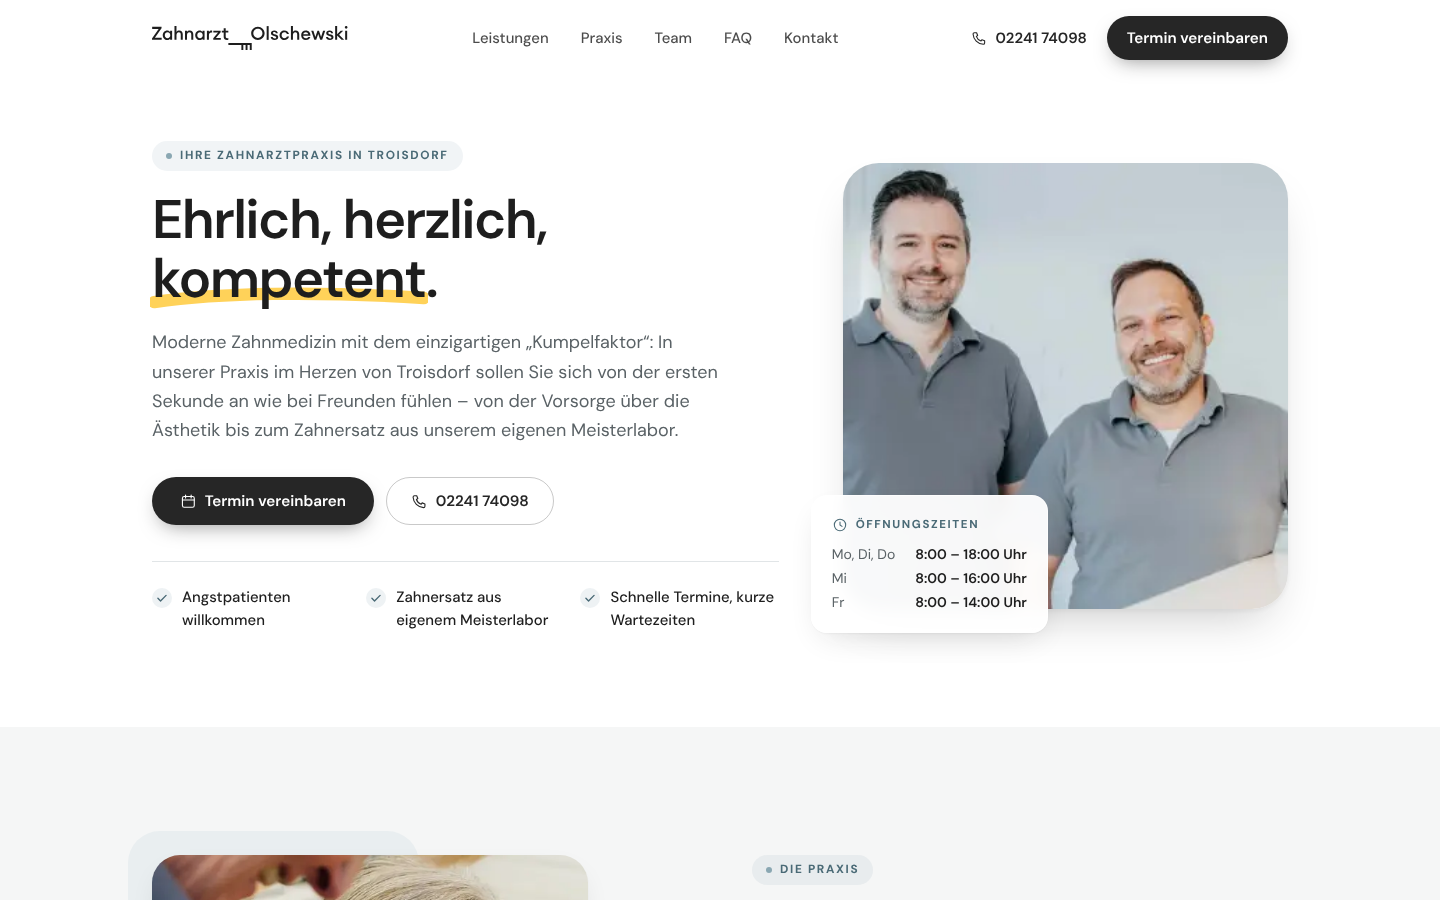
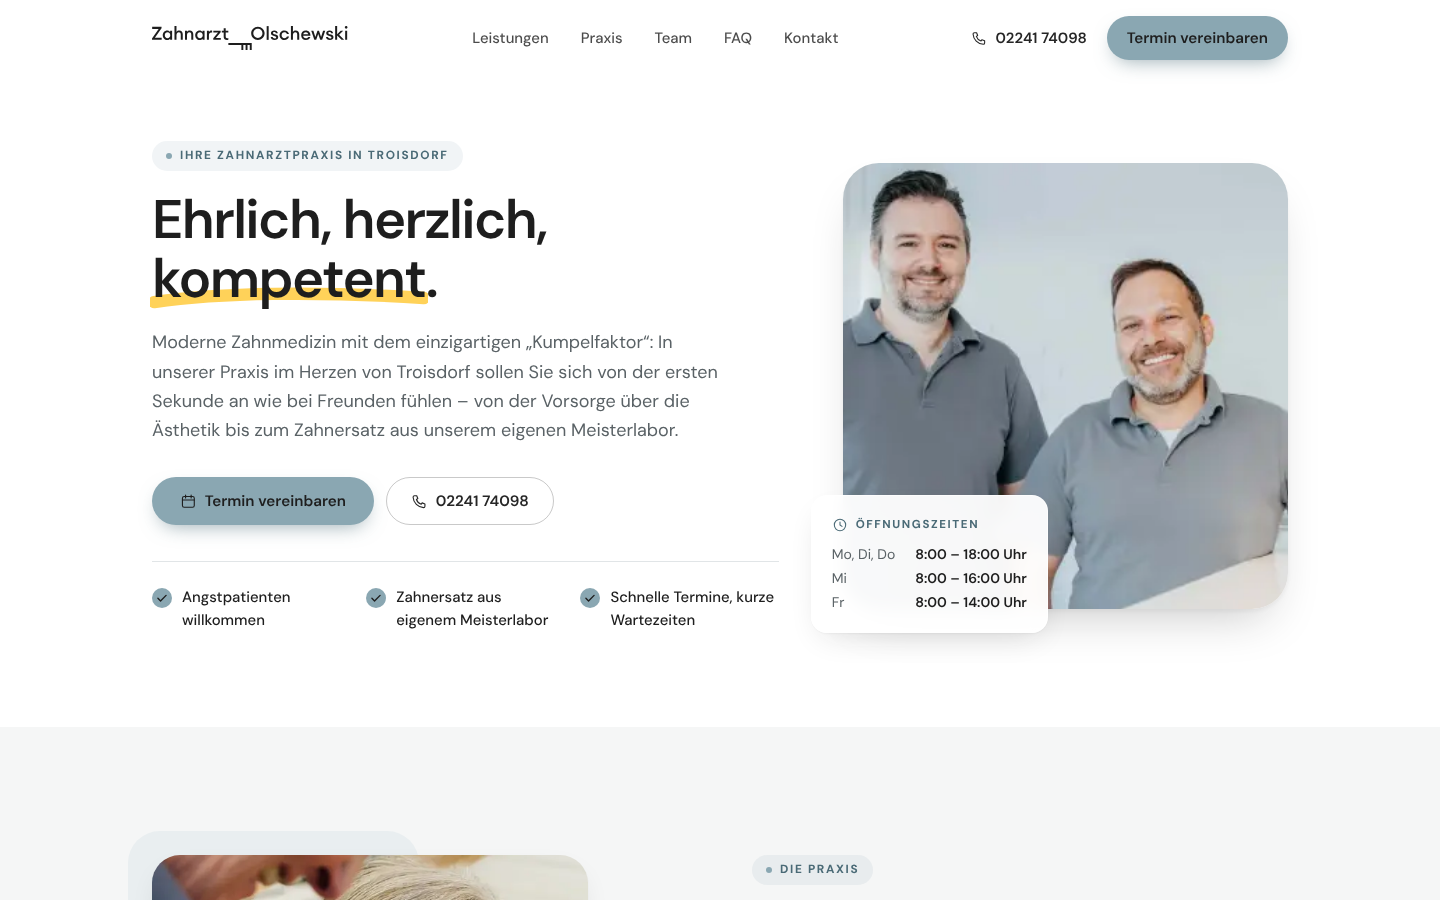
Use steel blue #8AA7B2 for buttons, checks and two sections; white footer
Primary buttons, check badges, the carousel's next button, the
'Warum Zahnarzt Olschewski' section and the contact section now use the
brand's steel blue with dark text (6.5:1 contrast); the footer is white.

Claude-Session: https://claude.ai/code/session_01Vr5Rfgab91QRRhhiRZh8yg

diff --git a/src/components/sections/Contact.tsx b/src/components/sections/Contact.tsx
@@ -5,14 +5,14 @@ import { Rich } from "../Rich";
 
 export function Contact() {
   return (
-    <section id="kontakt" aria-labelledby="kontakt-title" className="bg-charcoal-900 py-20 text-white sm:py-24 lg:py-28">
+    <section id="kontakt" aria-labelledby="kontakt-title" className="bg-steel-500 py-20 text-charcoal-900 sm:py-24 lg:py-28">
       <div className="container-page grid gap-12 lg:grid-cols-12 lg:gap-14">
         <div className="lg:col-span-5">
-          <p className="eyebrow-dark">{contact.eyebrow}</p>
-          <h2 id="kontakt-title" className="heading-lg mt-4 text-balance text-white!">
+          <p className="eyebrow-steel">{contact.eyebrow}</p>
+          <h2 id="kontakt-title" className="heading-lg mt-4 text-balance">
             <Rich text={contact.title} />
           </h2>
-          <p className="mt-5 max-w-md text-[1.05rem] leading-relaxed text-white/75">{contact.intro}</p>
+          <p className="mt-5 max-w-md text-[1.05rem] leading-relaxed text-charcoal-900/80">{contact.intro}</p>
 
           <div className="mt-8 grid gap-3">
             {appointmentIsExternal && (
@@ -22,13 +22,13 @@ export function Contact() {
                 rel="noopener"
                 data-track="appointment_cta_click"
                 data-track-location="contact"
-                className="group flex items-center gap-4 rounded-2xl border border-white/15 bg-white/5 p-5 transition-colors hover:border-white/40 hover:bg-white/10"
+                className="group flex items-center gap-4 rounded-2xl border border-charcoal-900/10 bg-white/35 p-5 transition-colors hover:border-charcoal-900/30 hover:bg-white/60"
               >
                 <span className="inline-flex h-12 w-12 shrink-0 items-center justify-center rounded-full bg-sun text-charcoal-950">
                   <CalendarIcon className="h-5 w-5" strokeWidth={2} />
                 </span>
                 <span>
-                  <span className="block text-sm text-white/70">Rund um die Uhr online</span>
+                  <span className="block text-sm text-charcoal-900/75">Rund um die Uhr online</span>
                   <span className="block text-xl font-bold">Termin bei Doctolib buchen</span>
                 </span>
               </a>
@@ -36,41 +36,41 @@ export function Contact() {
             <a
               href={practice.phone.href}
               data-track-location="contact"
-              className="group flex items-center gap-4 rounded-2xl border border-white/15 bg-white/5 p-5 transition-colors hover:border-white/40 hover:bg-white/10"
+              className="group flex items-center gap-4 rounded-2xl border border-charcoal-900/10 bg-white/35 p-5 transition-colors hover:border-charcoal-900/30 hover:bg-white/60"
             >
-              <span className="inline-flex h-12 w-12 shrink-0 items-center justify-center rounded-full bg-steel-500 text-charcoal-950">
+              <span className="inline-flex h-12 w-12 shrink-0 items-center justify-center rounded-full bg-charcoal-900 text-white">
                 <PhoneIcon className="h-5 w-5" strokeWidth={2} />
               </span>
               <span>
-                <span className="block text-sm text-white/70">Am schnellsten per Telefon</span>
+                <span className="block text-sm text-charcoal-900/75">Am schnellsten per Telefon</span>
                 <span className="block text-xl font-bold tracking-wide">{practice.phone.display}</span>
               </span>
             </a>
             <a
               href={`mailto:${practice.email}`}
               data-track-location="contact"
-              className="group flex items-center gap-4 rounded-2xl border border-white/15 bg-white/5 p-5 transition-colors hover:border-white/40 hover:bg-white/10"
+              className="group flex items-center gap-4 rounded-2xl border border-charcoal-900/10 bg-white/35 p-5 transition-colors hover:border-charcoal-900/30 hover:bg-white/60"
             >
-              <span className="inline-flex h-12 w-12 shrink-0 items-center justify-center rounded-full bg-white/10 text-steel-300">
+              <span className="inline-flex h-12 w-12 shrink-0 items-center justify-center rounded-full bg-white text-charcoal-900">
                 <MailIcon className="h-5 w-5" strokeWidth={2} />
               </span>
               <span className="min-w-0">
-                <span className="block text-sm text-white/70">Per E-Mail</span>
+                <span className="block text-sm text-charcoal-900/75">Per E-Mail</span>
                 <span className="block font-semibold break-all">{practice.email}</span>
               </span>
             </a>
           </div>
 
-          <div className="mt-3 rounded-2xl border border-white/15 bg-white/5 p-5">
-            <p className="flex items-center gap-2 text-xs font-bold tracking-[0.14em] text-steel-300 uppercase">
+          <div className="mt-3 rounded-2xl border border-charcoal-900/10 bg-white/35 p-5">
+            <p className="flex items-center gap-2 text-xs font-bold tracking-[0.14em] text-charcoal-900 uppercase">
               <ClockIcon className="h-4 w-4" /> Öffnungszeiten
             </p>
             <table className="mt-3 w-full text-left">
               <caption className="sr-only">Öffnungszeiten</caption>
               <tbody>
                 {practice.openingHours.map((row) => (
-                  <tr key={row.label} className="border-b border-white/10 last:border-0">
-                    <th scope="row" className="py-2 pr-4 font-normal text-white/70">
+                  <tr key={row.label} className="border-b border-charcoal-900/10 last:border-0">
+                    <th scope="row" className="py-2 pr-4 font-normal text-charcoal-900/75">
                       {row.label}
                     </th>
                     <td className="py-2 text-right font-semibold whitespace-nowrap">{row.hours}</td>

diff --git a/src/components/Footer.tsx b/src/components/Footer.tsx
@@ -5,22 +5,22 @@ import { ConsentSettingsButton } from "./ConsentManager";
 export function Footer() {
   const year = new Date().getFullYear();
   return (
-    <footer className="bg-charcoal-950 pt-16 pb-28 text-white/75 lg:pb-12">
+    <footer className="border-t border-line bg-white pt-16 pb-28 text-muted lg:pb-12">
       <div className="container-page">
-        <div className="grid gap-10 border-b border-white/10 pb-12 md:grid-cols-12">
+        <div className="grid gap-10 border-b border-line pb-12 md:grid-cols-12">
           <div className="md:col-span-4">
-            <Logo variant="light" className="h-6 w-auto" />
+            <Logo className="h-6 w-auto" />
             <p className="mt-5 max-w-xs text-sm leading-relaxed">
               Die Zahnarztpraxis für Jung und Alt – im Herzen von Troisdorf. Ehrlich, herzlich, kompetent.
             </p>
           </div>
 
           <nav aria-label="Footer-Navigation" className="md:col-span-2">
-            <h2 className="text-xs font-bold tracking-[0.16em] text-white uppercase">Seite</h2>
+            <h2 className="text-xs font-bold tracking-[0.16em] text-charcoal-900 uppercase">Seite</h2>
             <ul className="mt-4 space-y-2.5 text-sm">
               {navigation.map((item) => (
                 <li key={item.href}>
-                  <a href={withBase(`/${item.href}`)} className="hover:text-white">
+                  <a href={withBase(`/${item.href}`)} className="hover:text-charcoal-900">
                     {item.label}
                   </a>
                 </li>
@@ -29,7 +29,7 @@ export function Footer() {
           </nav>
 
           <div className="md:col-span-3">
-            <h2 className="text-xs font-bold tracking-[0.16em] text-white uppercase">Kontakt</h2>
+            <h2 className="text-xs font-bold tracking-[0.16em] text-charcoal-900 uppercase">Kontakt</h2>
             <address className="mt-4 space-y-2.5 text-sm not-italic">
               <p>
                 {practice.address.street}
@@ -42,26 +42,26 @@ export function Footer() {
                   rel="noopener"
                   data-track="directions_click"
                   data-track-location="footer"
-                  className="font-semibold text-steel-300 hover:text-white"
+                  className="font-semibold text-steel-700 hover:text-charcoal-900"
                 >
                   Route planen →<span className="sr-only"> (öffnet Google Maps in neuem Tab)</span>
                 </a>
               </p>
               <p>
-                <a href={practice.phone.href} data-track-location="footer" className="hover:text-white">
+                <a href={practice.phone.href} data-track-location="footer" className="hover:text-charcoal-900">
                   {practice.phone.display}
                 </a>
               </p>
               <p>
-                <a href={`mailto:${practice.email}`} data-track-location="footer" className="break-all hover:text-white">
+                <a href={`mailto:${practice.email}`} data-track-location="footer" className="break-all hover:text-charcoal-900">
                   {practice.email}
                 </a>
               </p>
               <p className="flex flex-wrap gap-x-4 gap-y-1">
-                <a href={practice.anamnesisForm} target="_blank" rel="noopener" className="hover:text-white">
+                <a href={practice.anamnesisForm} target="_blank" rel="noopener" className="hover:text-charcoal-900">
                   Anamnesebogen (PDF)
                 </a>
-                <a href={practice.instagram} target="_blank" rel="noopener" className="hover:text-white">
+                <a href={practice.instagram} target="_blank" rel="noopener" className="hover:text-charcoal-900">
                   Instagram
                 </a>
               </p>
@@ -69,12 +69,12 @@ export function Footer() {
           </div>
 
           <div className="md:col-span-3">
-            <h2 className="text-xs font-bold tracking-[0.16em] text-white uppercase">Öffnungszeiten</h2>
+            <h2 className="text-xs font-bold tracking-[0.16em] text-charcoal-900 uppercase">Öffnungszeiten</h2>
             <ul className="mt-4 space-y-2.5 text-sm">
               {practice.openingHours.map((row) => (
                 <li key={row.label} className="flex justify-between gap-4">
                   <span>{row.short}</span>
-                  <span className="text-white">{row.hours}</span>
+                  <span className="text-charcoal-900">{row.hours}</span>
                 </li>
               ))}
             </ul>
@@ -87,16 +87,16 @@ export function Footer() {
           </p>
           <ul className="flex flex-wrap gap-x-6 gap-y-2">
             <li>
-              <a href={legal.impressumHref} className="hover:text-white">
+              <a href={legal.impressumHref} className="hover:text-charcoal-900">
                 Impressum
               </a>
             </li>
             <li>
-              <a href={legal.datenschutzHref} className="hover:text-white">
+              <a href={legal.datenschutzHref} className="hover:text-charcoal-900">
                 Datenschutz
               </a>
             </li>
-            <ConsentSettingsButton className="hover:text-white" />
+            <ConsentSettingsButton className="hover:text-charcoal-900" />
           </ul>
         </div>
       </div>

diff --git a/src/components/sections/Reasons.tsx b/src/components/sections/Reasons.tsx
@@ -7,37 +7,37 @@ export function Reasons() {
   return (
     <section
       aria-labelledby="gruende-title"
-      className="relative overflow-hidden bg-charcoal-900 py-20 text-white sm:py-24 lg:py-28"
+      className="relative overflow-hidden bg-steel-500 py-20 text-charcoal-900 sm:py-24 lg:py-28"
     >
       {/* the brand's Z_O monogram, as a quiet background motif */}
-      <Monogram className="pointer-events-none absolute -right-16 -bottom-10 w-[34rem] text-white/[0.04]" />
+      <Monogram className="pointer-events-none absolute -right-16 -bottom-10 w-[34rem] text-charcoal-900/[0.06]" />
 
       <div className="container-page relative grid gap-12 lg:grid-cols-12 lg:gap-16">
         <div className="lg:col-span-5">
-          <p className="eyebrow-dark">{reasons.eyebrow}</p>
-          <h2 id="gruende-title" className="heading-lg mt-4 text-balance text-white!">
+          <p className="eyebrow-steel">{reasons.eyebrow}</p>
+          <h2 id="gruende-title" className="heading-lg mt-4 text-balance">
             <Rich text={reasons.title} />
           </h2>
-          <p className="mt-5 max-w-md text-[1.05rem] leading-relaxed text-white/75">
+          <p className="mt-5 max-w-md text-[1.05rem] leading-relaxed text-charcoal-900/80">
             {reasons.intro}
           </p>
           <AppointmentLink location="reasons" className="btn-light mt-8" />
         </div>
 
-        <ol className="grid gap-px overflow-hidden rounded-[1.75rem] bg-white/10 sm:grid-cols-2 lg:col-span-7">
+        <ol className="grid gap-px overflow-hidden rounded-[1.75rem] bg-charcoal-900/15 sm:grid-cols-2 lg:col-span-7">
           {reasons.items.map((item, i) => (
             <li
               key={item.title}
-              className="bg-charcoal-900 p-7 transition-colors duration-300 hover:bg-charcoal-800 sm:p-8"
+              className="bg-steel-500 p-7 transition-colors duration-300 hover:bg-steel-600 sm:p-8"
             >
-              <span className="text-sm font-semibold tracking-[0.14em] text-steel-300" aria-hidden="true">
+              <span className="text-sm font-semibold tracking-[0.14em] text-charcoal-900/70" aria-hidden="true">
                 {String(i + 1).padStart(2, "0")}
               </span>
               <h3 className="mt-3 text-lg font-semibold">
                 {item.title}
                 <ReviewBadge show={integrations.reviewMode && !item.confirmed} />
               </h3>
-              <p className="mt-2 leading-relaxed text-white/70">{item.text}</p>
+              <p className="mt-2 leading-relaxed text-charcoal-900/80">{item.text}</p>
             </li>
           ))}
         </ol>

diff --git a/src/app/globals.css b/src/app/globals.css
@@ -11,6 +11,7 @@
   --color-charcoal-100: #e9eef0;
   --color-steel-300: #c5d5db;
   --color-steel-500: #8aa7b2;
+  --color-steel-600: #7896a2;
   --color-steel-700: #4a6a76;
   --color-sun: #ffd259;
   --color-ivory: #f5f6f6;
@@ -91,10 +92,11 @@ body {
     @apply block h-1.5 w-1.5 shrink-0 rounded-full bg-steel-500;
   }
 }
-@utility eyebrow-dark {
-  @apply eyebrow bg-white/10 text-steel-300;
+/* Pill label on the steel-blue sections */
+@utility eyebrow-steel {
+  @apply eyebrow bg-white/45 text-charcoal-900;
   &::before {
-    @apply bg-steel-300;
+    @apply bg-charcoal-900;
   }
 }
 
@@ -125,7 +127,7 @@ body {
   @apply inline-flex min-h-12 items-center justify-center gap-2 rounded-full px-6 text-[0.95rem] font-semibold transition duration-200 ease-out;
 }
 @utility btn-primary {
-  @apply btn bg-charcoal-800 text-white shadow-[0_8px_20px_-8px_rgb(30_30_30/0.5)] hover:-translate-y-px hover:bg-charcoal-900 active:translate-y-0;
+  @apply btn bg-steel-500 text-charcoal-900 shadow-[0_8px_20px_-8px_rgb(74_106_118/0.6)] hover:-translate-y-px hover:bg-steel-600 active:translate-y-0;
 }
 @utility btn-light {
   @apply btn bg-white text-charcoal-900 hover:-translate-y-px hover:bg-ivory active:translate-y-0;

diff --git a/src/components/sections/Hero.tsx b/src/components/sections/Hero.tsx
@@ -26,7 +26,7 @@ export function Hero() {
           <ul className="mt-9 grid gap-x-6 gap-y-3 border-t border-line pt-6 text-[0.93rem] font-medium text-ink sm:grid-cols-3 sm:gap-x-4 lg:grid-cols-1 xl:grid-cols-3">
             {hero.trustPoints.map((point) => (
               <li key={point} className="flex items-start gap-2.5">
-                <span className="mt-0.5 inline-flex h-5 w-5 shrink-0 items-center justify-center rounded-full bg-steel-500/15 text-steel-700">
+                <span className="mt-0.5 inline-flex h-5 w-5 shrink-0 items-center justify-center rounded-full bg-steel-500 text-charcoal-900">
                   <CheckIcon className="h-3.5 w-3.5" strokeWidth={2.4} />
                 </span>
                 {point}

diff --git a/src/components/sections/Testimonials.tsx b/src/components/sections/Testimonials.tsx
@@ -91,7 +91,7 @@ export function Testimonials() {
               onClick={() => step(1)}
               disabled={!canNext}
               aria-label="Nächste Bewertungen"
-              className="inline-flex h-12 w-12 items-center justify-center rounded-full bg-charcoal-800 text-white transition hover:bg-charcoal-900 disabled:cursor-not-allowed disabled:opacity-35"
+              className="inline-flex h-12 w-12 items-center justify-center rounded-full bg-steel-500 text-charcoal-900 transition hover:bg-steel-600 disabled:cursor-not-allowed disabled:opacity-35"
             >
               <ArrowIcon className="h-5 w-5" />
             </button>

diff --git a/src/components/sections/Intro.tsx b/src/components/sections/Intro.tsx
@@ -39,7 +39,7 @@ export function Intro() {
           <ul className="mt-8 space-y-3">
             {intro.points.map((point) => (
               <li key={point} className="flex items-start gap-3 font-medium text-ink">
-                <span className="mt-0.5 inline-flex h-6 w-6 shrink-0 items-center justify-center rounded-full bg-charcoal-800 text-white">
+                <span className="mt-0.5 inline-flex h-6 w-6 shrink-0 items-center justify-center rounded-full bg-steel-500 text-charcoal-900">
                   <CheckIcon className="h-3.5 w-3.5" strokeWidth={2.4} />
                 </span>
                 {point}
